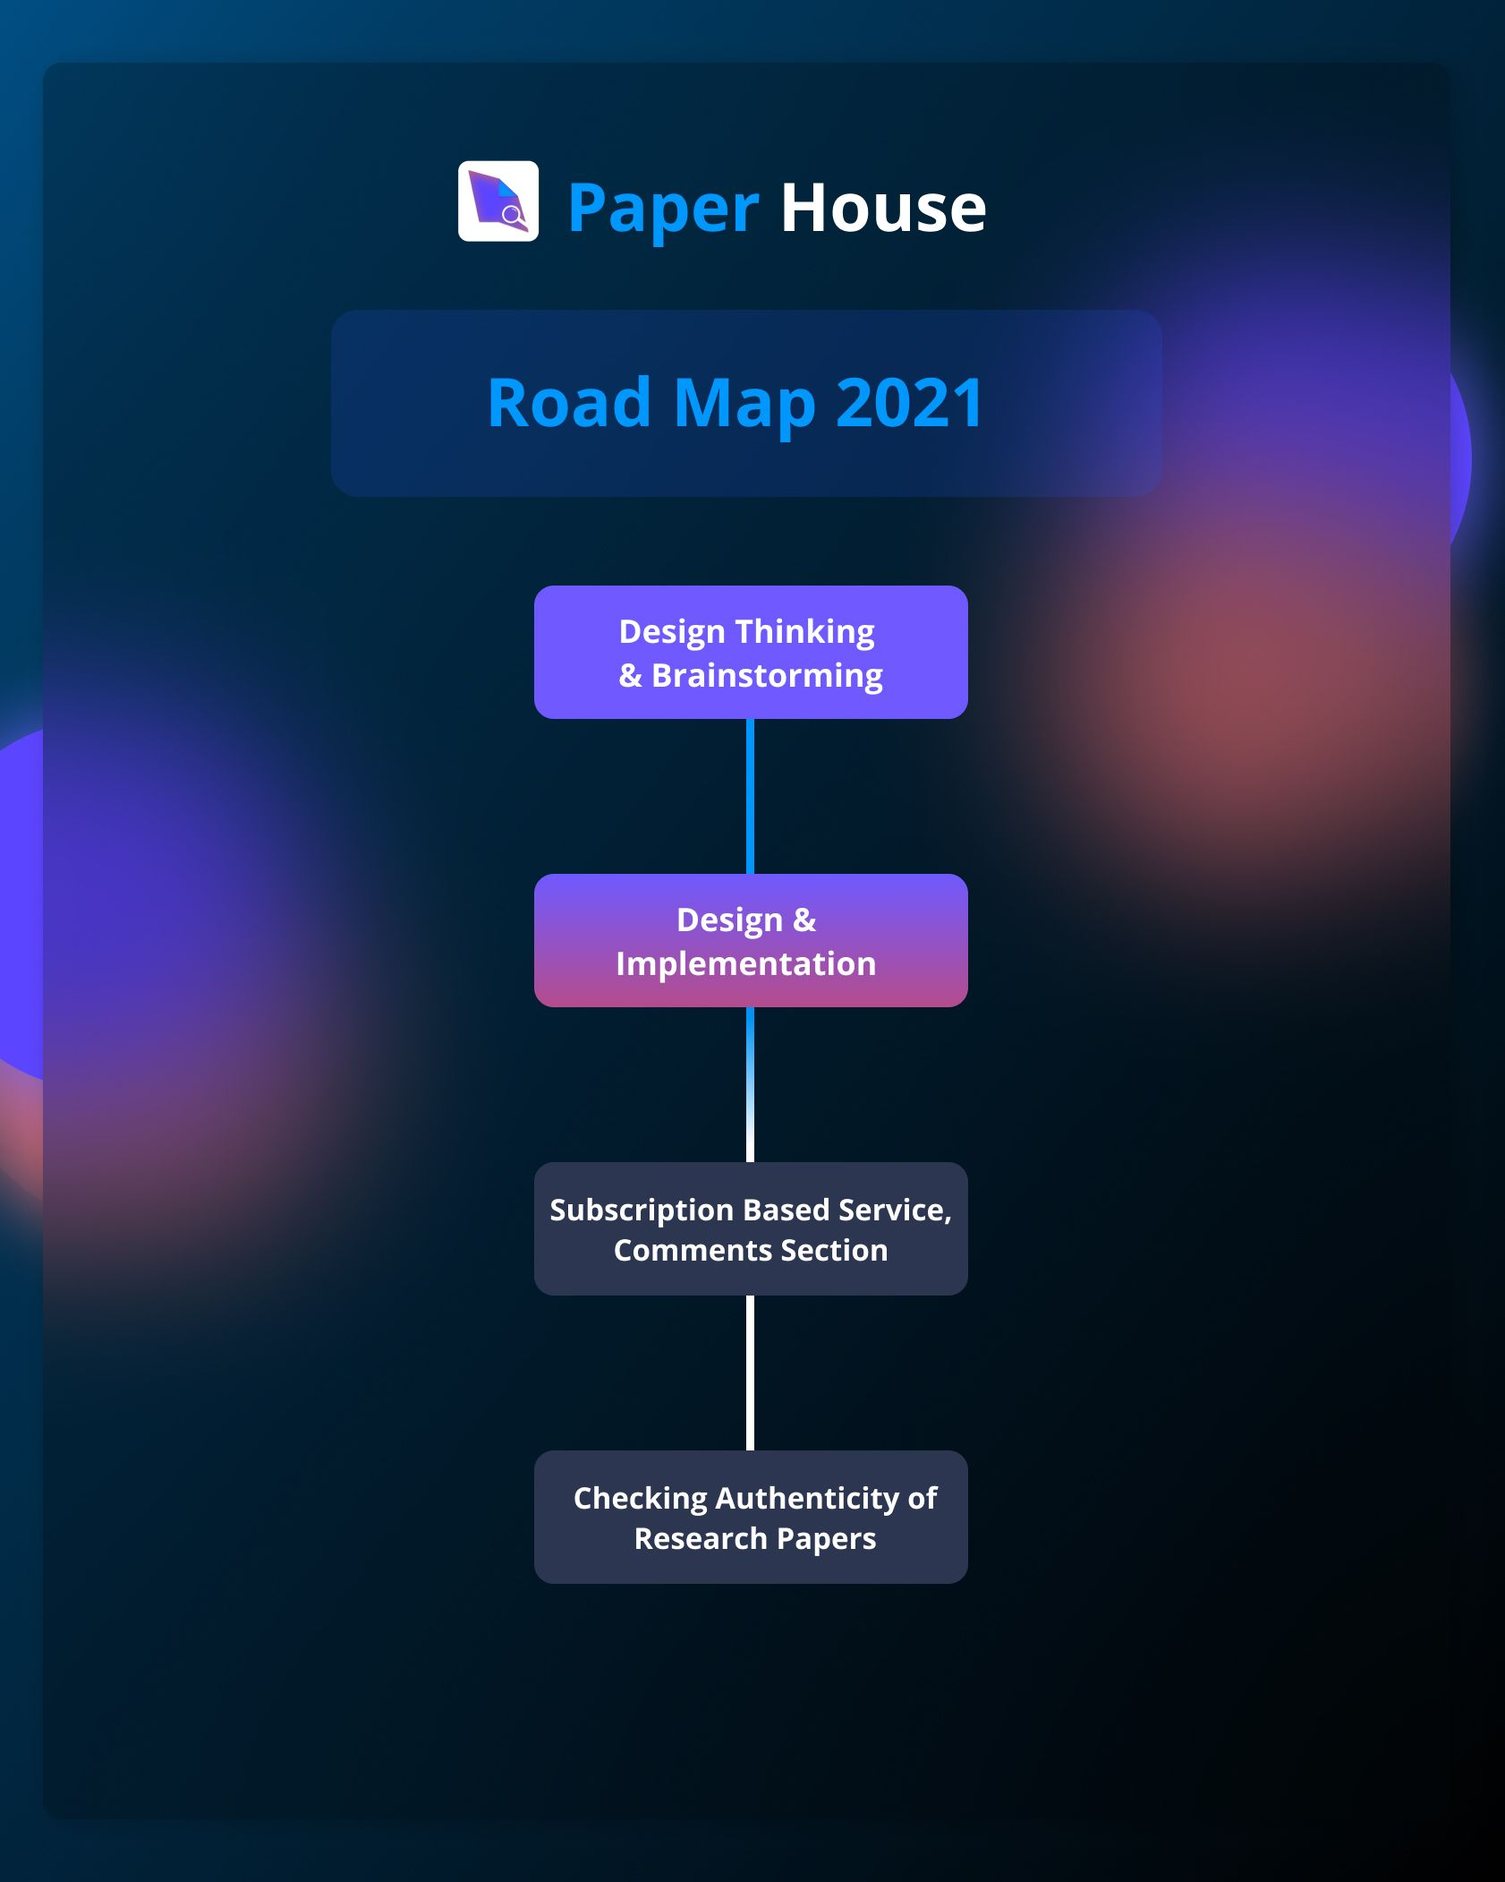
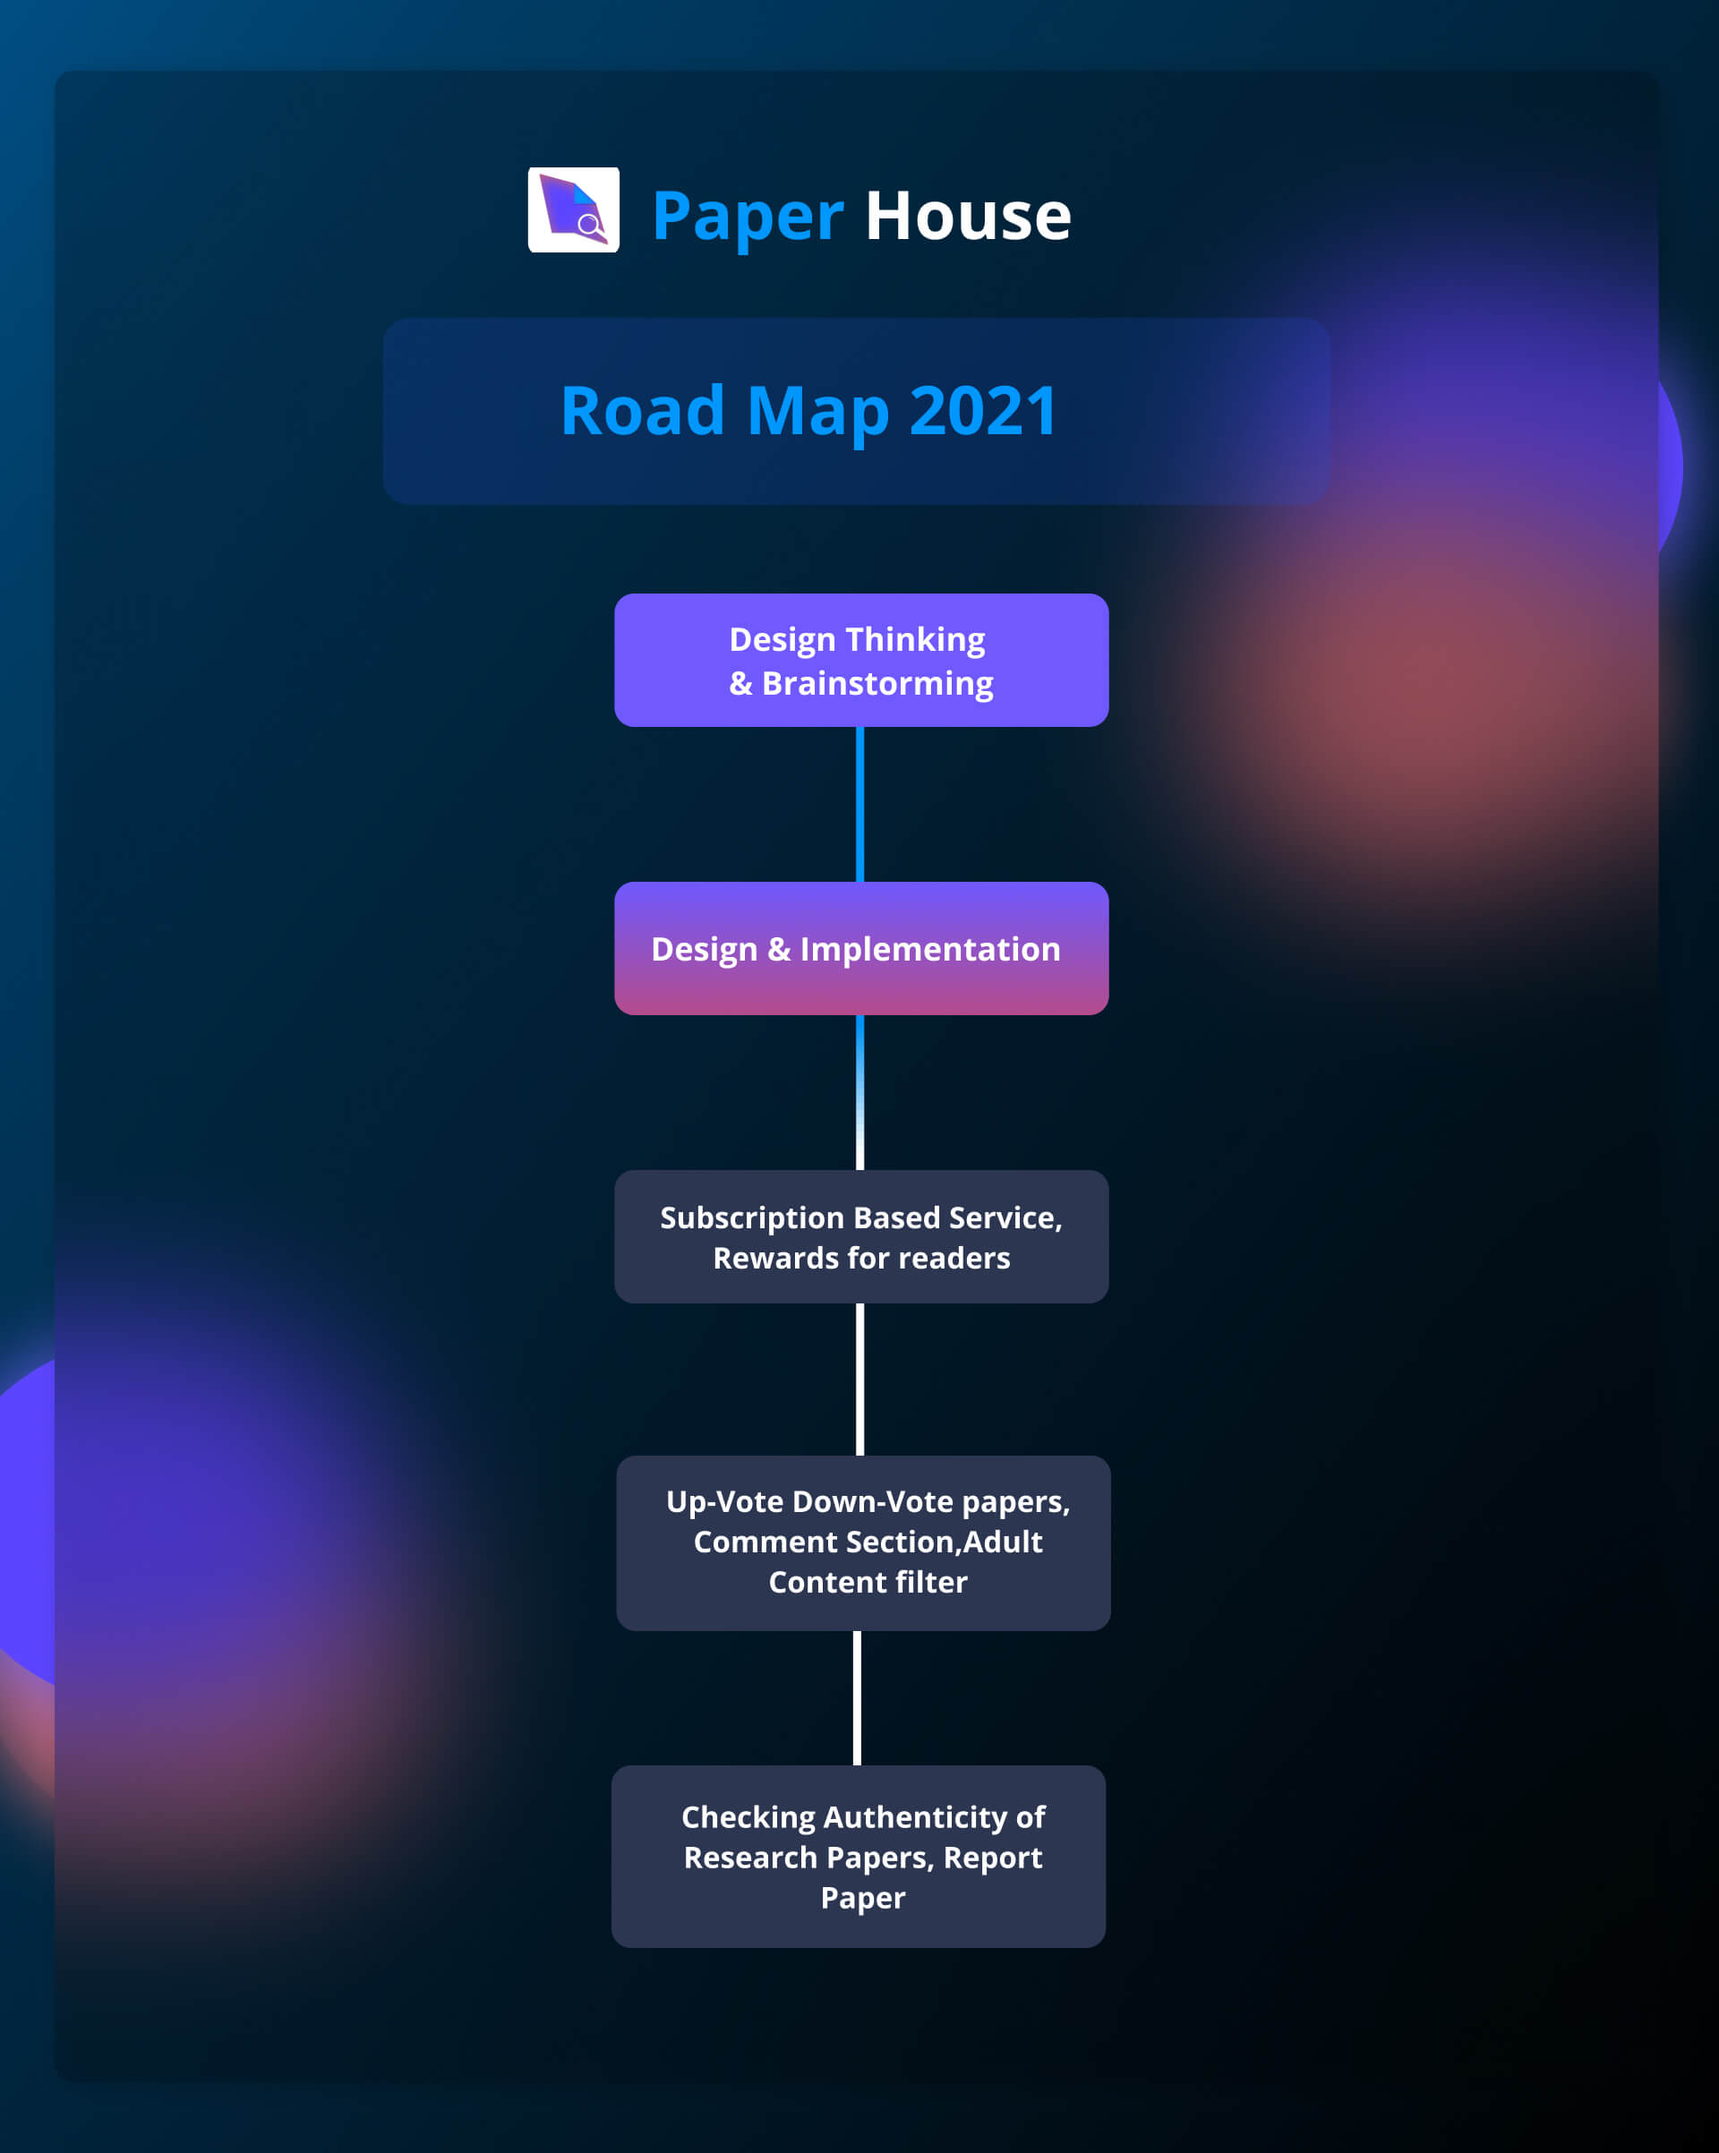
Updated roadmap

diff --git a/README.md b/README.md
@@ -19,13 +19,13 @@ An NFT Platform for Researchers. A place where a researcher can mint their resea
 
 ## What is Paper House?
 
-Much of the world is yet to be introduced to cryptocurrencies, DeFi, and NFTs. Our aim with this project is to onboard researchers and scholars to the world of crypto and introduce them to DeFi, Blockchain.  
+Much of the world is yet to be introduced to cryptocurrencies, DeFi, and NFTs. Our aim with this project is to onboard researchers and scholars to the world of crypto and introduce them to DeFi, Blockchain.
 
-A Researcher can Mint and Publish their research papers on Paper House. Minting validates the research paper, keeping the originality of the paper linked safely with the Author which would help prevent Piracy. Researchers can also be funded right on the same platform. Many research works get dropped due to lack of funding and support, Funding Research Papers on Paper House would motivate the researchers to carry forward the research work and implement or test their observations.
+A Researcher can Mint and Publish their research papers on Paper House. Minting validates the research paper, keeping the originality of the paper linked safely with the Author, which would help prevent Piracy & duplication of Research Papers. Researchers can also be funded right on the same platform. Many research works get dropped due to lack of funding and support, Funding Research Papers on Paper House would motivate the researchers to carry forward the research work.
 
 For scholars, Paper House is a one-stop platform that provides a simple way to broadly search for scholarly literature and also fund researches which have a great potential
 
-
+In near future, we’re planning to add various features to our platform like Up-Vote & Down-Vote Papers, De-list paper from our home page, Get crypto rewards for reading research papers, and also much-needed features like Verifying the Authenticity of Research papers, Report Paper, Comments Section, Filter for adult content, Getting crypto rewards for reading research papers and Subscription-based on-demand service to get more insights about a research paper so that researchers can get monetized.
 
 ## Getting Started
 
